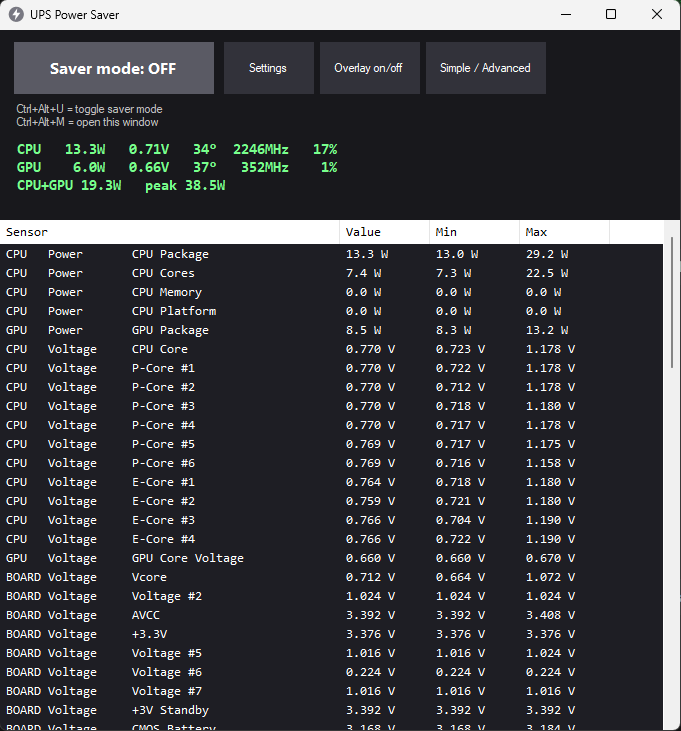
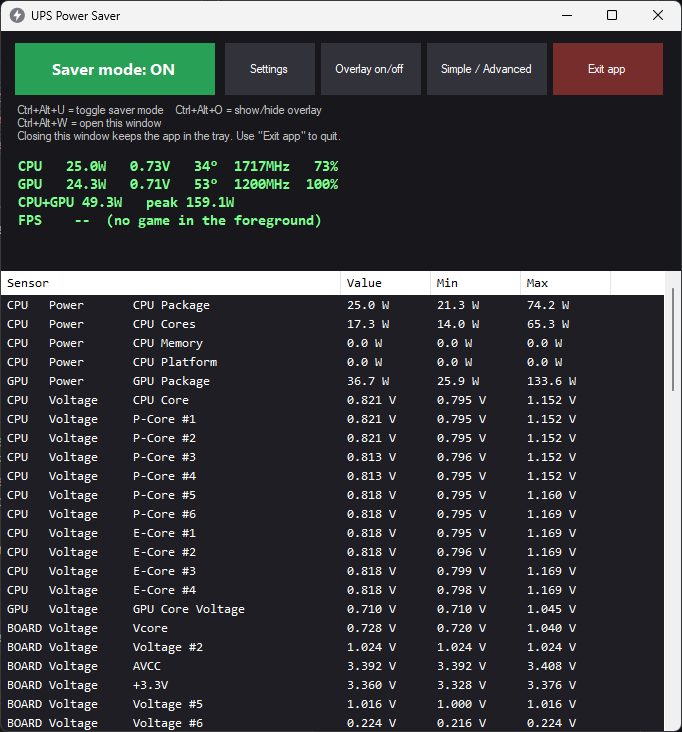
docs: refresh README screenshots
Replace the main window and overlay screenshots with current ones
(saver ON/OFF status, FPS line, new buttons) and add captions.

diff --git a/README.md b/README.md
@@ -5,7 +5,12 @@ power and stretch your UPS battery time. Press it again when the electricity is 
 on-screen overlay shows live CPU and GPU power draw, and a stats window shows voltages, temperatures and clocks (a
 simpler MSI Afterburner-style monitor).
 
+**Main window** (saver mode on, live sensors, shortcuts, one-click controls):
+
 ![Main window](docs/main-window.png)
+
+**Overlay** (Advanced mode, over a game: saver status, CPU/GPU watts, volts, temperature, clock, load, FPS):
+
 ![Overlay](docs/overlay-advanced.png)
 
 ## Features
